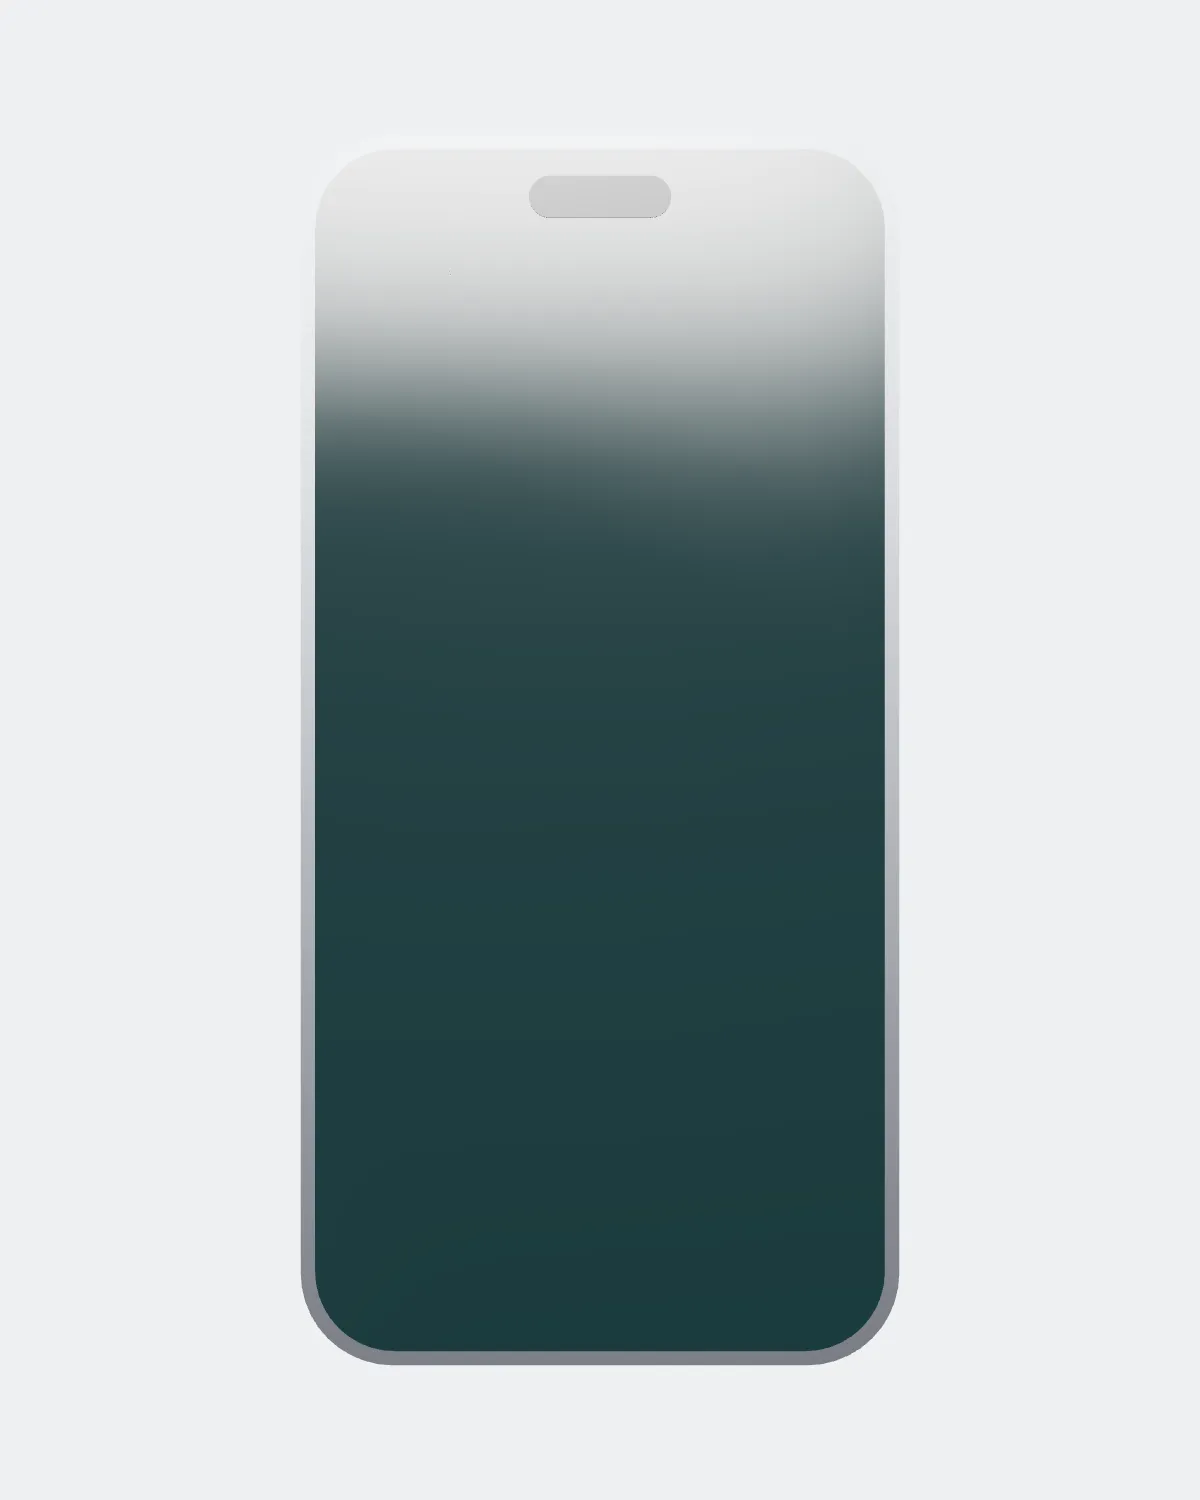
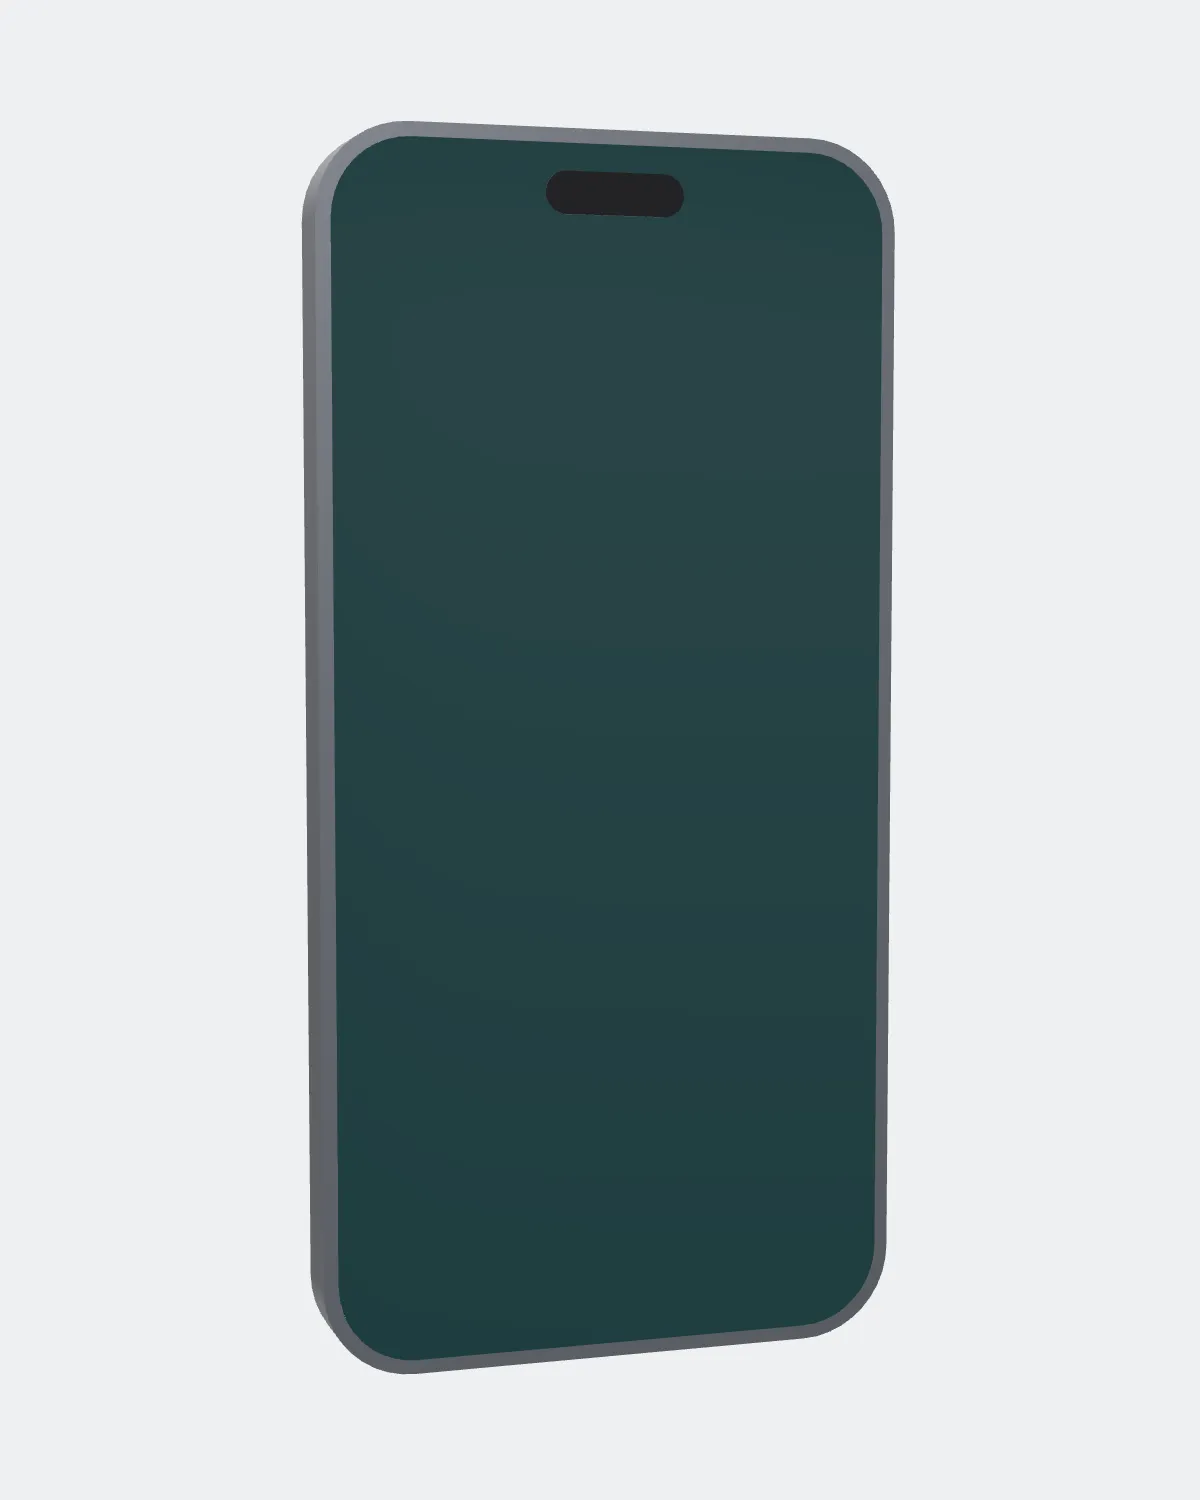
Re-angle the sample front photo and space the stock table headers

Changed region(s): [[0.2467, 0.0613, 0.7708, 0.92]]

diff --git a/src/app/(site)/shop/[brand]/[slug]/page.tsx b/src/app/(site)/shop/[brand]/[slug]/page.tsx
@@ -469,10 +469,10 @@ function StockPerStore({
             <th scope="col" className="py-1 font-normal">
               Store
             </th>
-            <th scope="col" className="py-1 text-right font-normal">
+            <th scope="col" className="py-1 pl-3 text-right font-normal">
               {p.storageGb}GB {p.colour}
             </th>
-            <th scope="col" className="py-1 text-right font-normal">
+            <th scope="col" className="py-1 pl-3 text-right font-normal">
               Any {p.model}
             </th>
           </tr>
